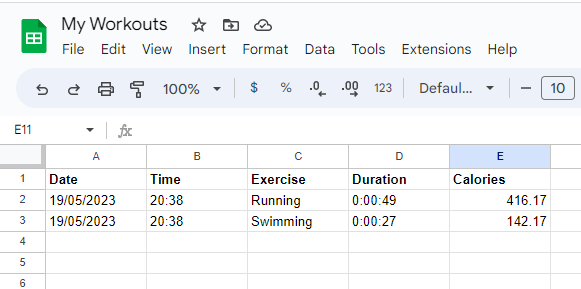
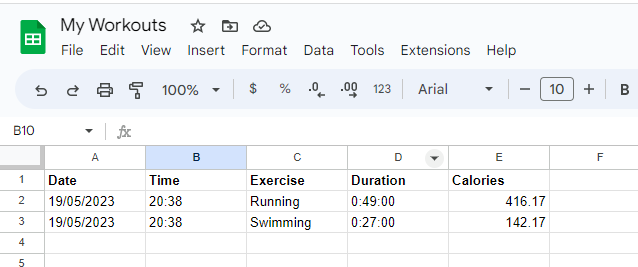
small fix for exercise time calculation

diff --git a/Udemy - 100 days of Python/Intermediate sections/day-38_workout-tracker/main.py b/Udemy - 100 days of Python/Intermediate sections/day-38_workout-tracker/main.py
@@ -136,7 +136,7 @@ def add_workout():
                 }
                 
                 for exercise in nutritionix_res_data['exercises']:
-                    exercise_seconds = exercise['duration_min']
+                    exercise_seconds = exercise['duration_min']*60
                     td = str(dt.timedelta(seconds=exercise_seconds)).split(".")[0]
                     sheety_add_row_req_body = {
                         "workout": {
